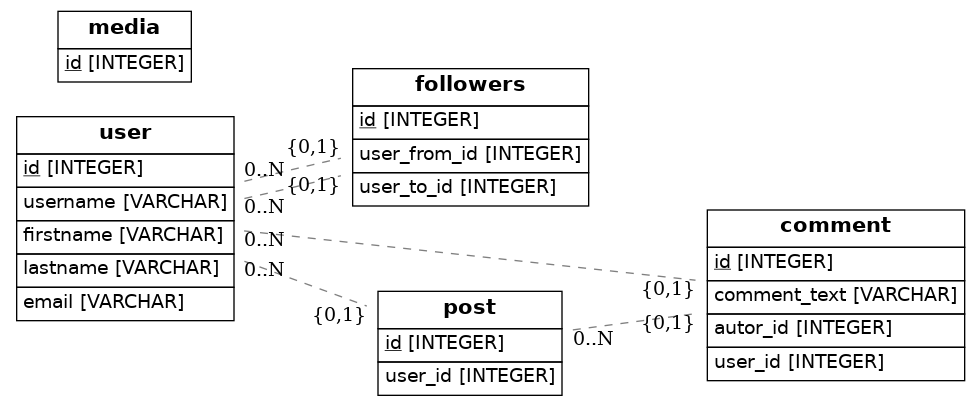
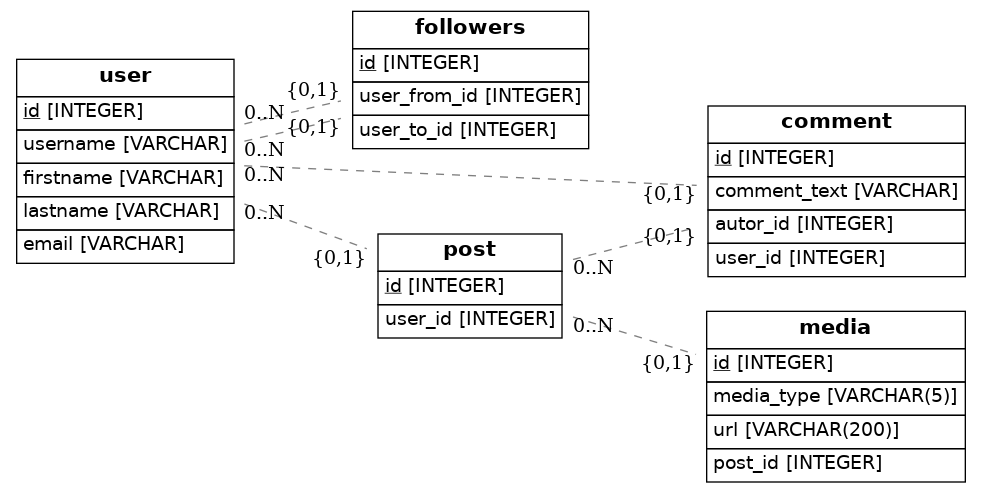
modelando

Changed region(s): [[0.0, 0.0, 1.0, 1.0], [0.0612, 0.0, 0.1837, 0.0887]]

diff --git a/src/models.py b/src/models.py
@@ -1,6 +1,6 @@
 import os
 import sys
-from sqlalchemy import Column, ForeignKey, Integer, String
+from sqlalchemy import Column, ForeignKey, Integer, String, Enum
 from sqlalchemy.ext.declarative import declarative_base
 from sqlalchemy.orm import relationship
 from sqlalchemy import create_engine
@@ -16,21 +16,22 @@ class User(Base):
     lastname = Column(String, nullable=False)
     email = Column(String, nullable=False)
     post= relationship('post')
+    followers = relationship('followers')
 
 class Followers(Base):
     __tablename__ = 'followers'
     id = Column(Integer, primary_key=True)
     user_from_id = Column(Integer, ForeignKey("user.id"))
     user_to_id = Column(Integer, ForeignKey("user.id"))
-    user = relationship(User)
+   
 
 class Comment(Base):
     __tablename__ = 'comment'
     id = Column(Integer, primary_key=True)
     comment_text = Column(String, nullable=False)
     autor_id = Column(Integer, ForeignKey("user.id"))
-    user_id = Column(Integer, ForeignKey("post.id") )
-   # post_id = Column(Integer, ForeignKey("user.id"))
+    user_id = Column(Integer, ForeignKey("post.id"))
+    user = relationship('User')
     #comment = relationship(User)
 
 class Post(Base):
@@ -42,6 +43,10 @@ class Post(Base):
 class Media(Base):
     __tablename__ = 'media'
     id = Column(Integer, primary_key=True)
+    media_type= Column(Enum("video", "image"))
+    url= Column(String(200))
+    post_id = Column(Integer, ForeignKey('post.id'))
+    post = relationship('post')
  
 
     def to_dict(self):
